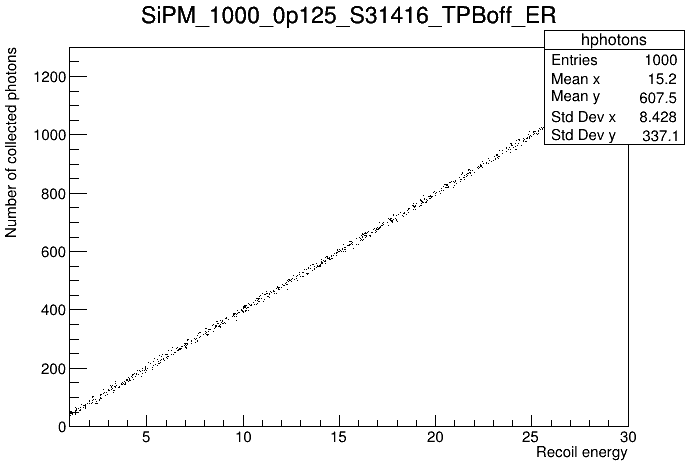
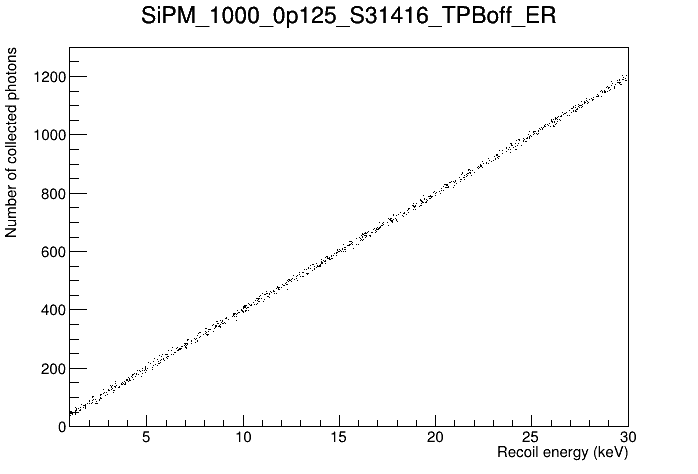
combined the three for loops in ReadOutput.c

Changed region(s): [[0.7822, 0.0591, 0.9928, 0.3249], [0.7221, 0.9451, 0.9026, 0.9747]]

diff --git a/ReadOutput.c b/ReadOutput.c
@@ -4,9 +4,11 @@
 
 void ReadOutput(TString filename){
 
+  //read in the data file
   TFile *fileIN = TFile::Open(filename);
   TTree *SiPMmc = (TTree*)fileIN->Get("SiPMmc");
 
+  //fetch the necessary stuff from the data file
   Double_t epsd, rpsd, erecoil;
   Int_t n_coll_p;
   SiPMmc->SetBranchAddress("epsd",&epsd);
@@ -20,17 +22,33 @@ void ReadOutput(TString filename){
   //remove the .root
   filename.ReplaceAll(".root","");
 
+  //get rid of the stats box
+  gStyle->SetOptStat(0);
+
+
   // Graph1: true PSD vs recorded PSD
   //making a graph of 100 bins from 0 to 1 on the x axis and 100 bins from 0 to 1 on the y axis
   TH2D *hPSD = new TH2D("hPSD","",100,0,1,100,0,1);
+
+  //Graph2: detected photons vs energy
+  //not sure what the maximum photon number should be
+  TH2D *hPhotons = new TH2D("hphotons", "", 100, energy_min, energy_max, 100, 0, 1300);
+
+  //Graph3: recorded PSD vs energy
+  TH2D *hPSDenergy = new TH2D("hPSDenergy", "", 100, energy_min, energy_max, 100, 0, 1);
+
 
   //loop through all of the events and add them to the graph
   for (int i=0; i<evt_max; i++){
      SiPMmc->GetEntry(i);
      hPSD->Fill(rpsd,epsd);
+     hPhotons->Fill(erecoil,n_coll_p);
+     hPSDenergy->Fill(erecoil,rpsd);
   }
 
+
   //graph the data
+  //Graph1
   TCanvas *c1 = new TCanvas("c1","c1");
   hPSD->SetTitle(filename);
   hPSD->GetXaxis()->SetTitle("Recorded PSD");
@@ -43,35 +61,19 @@ void ReadOutput(TString filename){
   //save the image
   c1->SaveAs("Img/"+filename+"__TruePSDvsRecPSD.png");
 
-
-  //Graph2: detected photons vs energy
-  //not sure what the maximum photon number should be
-  TH2D *hPhotons = new TH2D("hphotons", "", 100, energy_min, energy_max, 100, 0, 1300);
-
-  for (int i=0;i<evt_max;i++){
-    SiPMmc->GetEntry(i);
-    hPhotons->Fill(erecoil,n_coll_p);
-  }
-
+  //Graph2
   TCanvas *c2 = new TCanvas("c2","c2");
   hPhotons->SetTitle(filename);
-  hPhotons->GetXaxis()->SetTitle("Recoil energy");
+  hPhotons->GetXaxis()->SetTitle("Recoil energy (keV)");
   hPhotons->GetYaxis()->SetTitle("Number of collected photons");
   hPhotons->Draw();
 
   c2->SaveAs("Img/"+filename+"__PhotonsVsEnergy.png");
 
-  //Graph3: recorded PSD vs energy
-  TH2D *hPSDenergy = new TH2D("hPSDenergy", "", 100, energy_min, energy_max, 100, 0, 1);
-
-  for (int i=0;i<evt_max;i++){
-    SiPMmc->GetEntry(i);
-    hPSDenergy->Fill(erecoil,rpsd);
-  }
-
+  //Graph3
   TCanvas *c3 = new TCanvas("c3","c3");
   hPSDenergy->SetTitle(filename);
-  hPSDenergy->GetXaxis()->SetTitle("Recoil energy");
+  hPSDenergy->GetXaxis()->SetTitle("Recoil energy (keV)");
   hPSDenergy->GetYaxis()->SetTitle("Recorded PSD");
   hPSDenergy->Draw();
 
